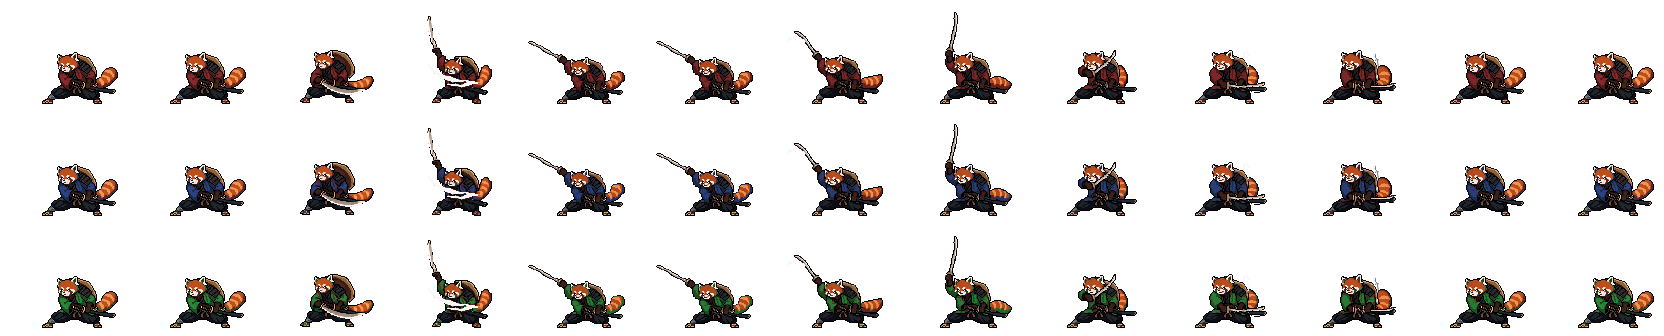
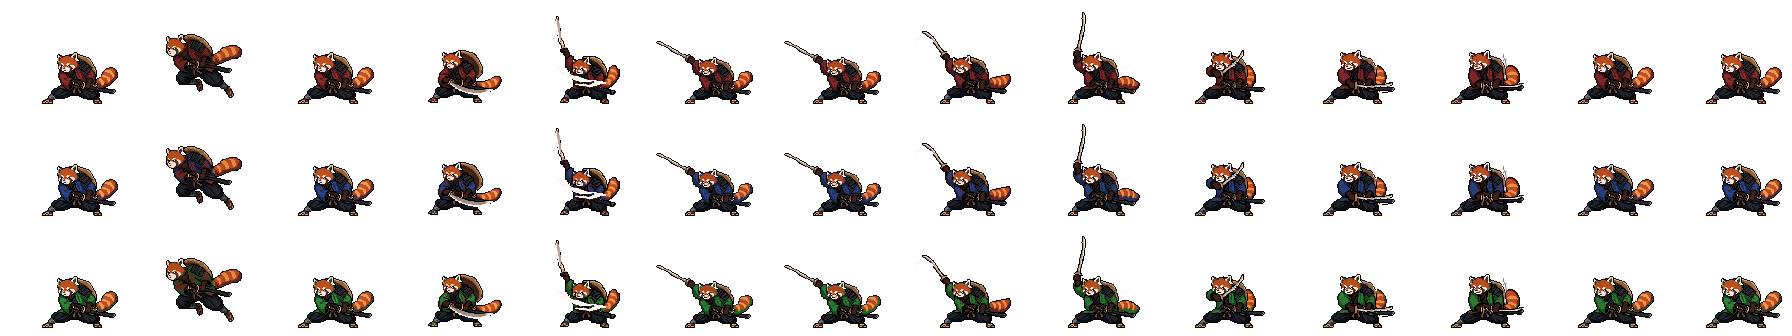
Quickdraw: airborne dash keyframe with speed lines
Claude-Session: https://claude.ai/code/session_01Na4BQSfsgPtUoSBxCa6yoU

diff --git a/public/js/scene.js b/public/js/scene.js
@@ -705,9 +705,15 @@ export class BattleScene {
     const dest = { x: first.x + this.reachDX(first) + (anim.dash || 0), y: first.y + 2 };
     A.anim = { d: anim, t0: now(), speed, at, total };
     this.cam = { x: (dest.x + first.x) / 2 - 6, y: dest.y - 30, t0: now(), dur: T(total + 200), z: 1.12 };
-    // 1. the dash: low and fast, kicking up dust
-    this.move(A, dest.x - home.x, dest.y - home.y, T(at[q.dashTo]), true); sfx('whirl');
-    for (let i = 0; i < 6; i++) setTimeout(() => this.particles.push({ x: A.x + A.ox + 6, y: A.y + A.oy - 1, vx: 20 + Math.random() * 30, vy: -8 - Math.random() * 10, g: 20, life: 0.4, t: 0, c: '#8a7a70', blob: 1, fade: true }), T(at[q.dashTo] * i / 6));
+    // 1. the dash: a short crouch, then he springs at the enemy in the airborne dash pose ('dashAt' to 'dashTo'), leaving
+    //    speed lines, a red streak and dust behind him
+    const d0 = at[q.dashAt || 0], dMs = at[q.dashTo] - d0;
+    setTimeout(() => { this.move(A, dest.x - home.x, dest.y - home.y, T(dMs), true); sfx('whirl'); }, T(d0));
+    for (let i = 0; i < 10; i++) setTimeout(() => {
+      const x = A.x + A.ox + 8, y = A.y + A.oy;
+      this.particles.push({ x, y: y - 8 - Math.random() * 30, vx: 140 + Math.random() * 80, vy: 0, g: 0, life: 0.22, t: 0, c: i % 3 ? '#ffffff' : '#ff3a4a', streak: 8 + Math.random() * 8, fade: true });
+      if (i % 2 === 0) this.particles.push({ x, y: y - 1, vx: 20 + Math.random() * 30, vy: -8 - Math.random() * 10, g: 20, life: 0.4, t: 0, c: '#8a7a70', blob: 1, fade: true });
+    }, T(d0 + dMs * i / 10));
     // 2. the red aura, gathering until the cut
     const auraMs = T(at[q.cutAt] - at[q.auraAt]);
     setTimeout(() => {

diff --git a/tools/build_attack.py b/tools/build_attack.py
@@ -130,12 +130,12 @@ EXTRA = {
                              resolve=dict(charge=[1, 6], up=7, hover=8, swing=[9, 10, 11], down=12, land=13, tipCharge=[-39, -15], tipUp=[-33, -100], guardUp=[-33, -61], tipDown=[-33, -15], guardDown=[-33, -51])),
     'knight:f/resolve': dict(base='knight:f', ms=[80, 120, 120, 120, 120, 120, 120, 300, 300, 60, 60, 60, 300, 400], hit=12, cast=False,
                              resolve=dict(charge=[1, 6], up=7, hover=8, swing=[9, 10, 11], down=12, land=13, tipCharge=[-28, -30], tipUp=[-28, -100], guardUp=[-28, -62], tipDown=[-32, -1], guardDown=[-32, -40])),
-    # Quickdraw (samurai; PixelLab keyframe + in-betweens, tools/art-src/quickdraw/): he dashes in still in his iaido crouch
-    # (until 'dashTo'), a red aura gathers round him ('auraAt' to 'cutAt'), the draw-cut lands on 'cutAt' with the red
+    # Quickdraw (samurai; PixelLab keyframe + in-betweens, tools/art-src/quickdraw/): he springs into an airborne dash, paw
+    # on the sheathed hilt ('dashAt' to 'dashTo', the keyframe after Andy's dash reference), lands in his iaido crouch, a red aura gathers round him ('auraAt' to 'cutAt'), the draw-cut lands on 'cutAt' with the red
     # crescent slash (public/art/fx/quickdraw_slash.png), he holds the follow-through, re-sheathes ('sheathAt': the click)
     # and goes back to his place ('returnAt').
-    'samurai:m/iai': dict(base='samurai:m', ms=[280, 420, 45, 45, 70, 320, 80, 80, 80, 80, 90, 120, 260], hit=3, cast=False, dash=26,
-                          iai=dict(dashTo=1, auraAt=1, cutAt=3, sheathAt=11, returnAt=12)),
+    'samurai:m/iai': dict(base='samurai:m', ms=[70, 240, 420, 45, 45, 70, 320, 80, 80, 80, 80, 90, 120, 260], hit=4, cast=False, dash=26,
+                          iai=dict(dashAt=1, dashTo=2, auraAt=2, cutAt=4, sheathAt=12, returnAt=13)),
     'knight:m/power': dict(base='knight:m', ms=[60, 70, 90, 110, 120, 130, 140, 110, 90, 380], hit=9, aura=[1, 7], dashAt=7, dashFrames=8, upswing=9, dash=10, cast=False),
     'knight:f/power': dict(base='knight:f', ms=[60, 70, 110, 120, 130, 140, 110, 90, 380], hit=8, aura=[1, 6], dashAt=6, dashFrames=7, upswing=8, dash=10, cast=False),
 }

diff --git a/README.md b/README.md
@@ -173,7 +173,7 @@ The built-in sprites are generated by a pixel rig in `public/js/sprites.js` (her
 
 Hero frames are 84×76 with the feet at (46, 72), facing left. Enemy frame sizes are in `ENEMY_DEF` in `sprites.js`, facing right. Anything not listed keeps the generated art. Add `"portrait": [x, y, w, h]` to a hero to crop its HUD portrait from the idle frame. Add `"variants": 3, "variantRows": 1` to put colour variants on extra rows.
 
-**The Samurai** (a red panda in a crimson haori) is the fifth class: *Precision*, 40 HP, Iai Cut (8) and Parry (8 block). Its signature is **Poised**: Still Mind, Kiai, Perfect Parry and Inner Calm make the samurai Poised, and the next basic attack or damaging skill deals double damage (blocks and buffs don't spend it; `spendsPoise` in `server/combat.js`). The rest of the pool rewards timing: Quickdraw and Moonlit Iai hit harder against an enemy at full health, Final Cut and Moonlit Iai against one below half. Its sprite is PixelLab concept A1 (`tools/art-src/samurai_base.png`, mirrored to face left), built by `python3 tools/build_ranger.py samurai:m` into 14 placeholder poses (lean, recoil, crouch, kneel) in crimson, indigo and jade (only the coat is recoloured, since the fur shares its reds). For now the Boy and Girl picks are the same red panda (`samurai:f` is an alias in the manifest), and it has no hand-animated moves yet, so it uses the generic dash-and-swing. **Samurai idle:** a low iaido crouch with a paw on the hilt of the sheathed katana, ready to draw (after Andy's ink reference), breathing with a swaying tail (a PixelLab idle loop, `tools/art-src/samurai_idle.png`); the strike frames use the blade-out stance, so he draws as he hits. **Quickdraw** (after Andy's slash FX reference): he dashes at the enemy still in his iaido crouch, a red aura gathers round him, the draw-cut lands with a red crescent slash (`public/art/fx/quickdraw_slash.png`, a PixelLab image revealed and faded in code) and red shards, he holds the follow-through, re-sheathes with a click and goes back (`_iaiAnim` in `scene.js`, `anims.iai` built from `tools/art-src/quickdraw/`). **Samurai victory** (after Andy's victory concept sheet): out of the crouch he draws and raises the blade high, slashes the air (PixelLab's own smear arc; the game throws a gust of cherry blossom forward on `drawAt`), flicks and sheathes it (`sheathAt`: from the click, blossoms drift down around him, tumbling and settling, for as long as the win lasts; `_drawPetals` in `scene.js`), turns his back, takes the straw kasa off his back and puts it on with the brim pulled low over his eyes, and holds the pose with the sheathed sword at his side, breathing. Keyframes are PixelLab `edit_image` (the turned hold pose is shrunk to his height with the head kept full size by `python3 tools/build_samurai_victory.py`), in-betweens `animate_image`; the sources are in `tools/art-src/victory/`, and `python3 tools/build_attack.py samurai:m/victory` builds the sheet (the coat is recoloured by crimson vs orange, so the fur never changes colour). The Animation Lab has a **Victory** button for every hero. His attacks will be themed on cherry blossoms and moons.
+**The Samurai** (a red panda in a crimson haori) is the fifth class: *Precision*, 40 HP, Iai Cut (8) and Parry (8 block). Its signature is **Poised**: Still Mind, Kiai, Perfect Parry and Inner Calm make the samurai Poised, and the next basic attack or damaging skill deals double damage (blocks and buffs don't spend it; `spendsPoise` in `server/combat.js`). The rest of the pool rewards timing: Quickdraw and Moonlit Iai hit harder against an enemy at full health, Final Cut and Moonlit Iai against one below half. Its sprite is PixelLab concept A1 (`tools/art-src/samurai_base.png`, mirrored to face left), built by `python3 tools/build_ranger.py samurai:m` into 14 placeholder poses (lean, recoil, crouch, kneel) in crimson, indigo and jade (only the coat is recoloured, since the fur shares its reds). For now the Boy and Girl picks are the same red panda (`samurai:f` is an alias in the manifest), and it has no hand-animated moves yet, so it uses the generic dash-and-swing. **Samurai idle:** a low iaido crouch with a paw on the hilt of the sheathed katana, ready to draw (after Andy's ink reference), breathing with a swaying tail (a PixelLab idle loop, `tools/art-src/samurai_idle.png`); the strike frames use the blade-out stance, so he draws as he hits. **Quickdraw** (after Andy's slash FX and dash references): he springs into an airborne dash with his paw on the sheathed hilt (a PixelLab keyframe), lands in his iaido crouch by the enemy, a red aura gathers round him, the draw-cut lands with a red crescent slash (`public/art/fx/quickdraw_slash.png`, a PixelLab image revealed and faded in code) and red shards, he holds the follow-through, re-sheathes with a click and goes back (`_iaiAnim` in `scene.js`, `anims.iai` built from `tools/art-src/quickdraw/`). **Samurai victory** (after Andy's victory concept sheet): out of the crouch he draws and raises the blade high, slashes the air (PixelLab's own smear arc; the game throws a gust of cherry blossom forward on `drawAt`), flicks and sheathes it (`sheathAt`: from the click, blossoms drift down around him, tumbling and settling, for as long as the win lasts; `_drawPetals` in `scene.js`), turns his back, takes the straw kasa off his back and puts it on with the brim pulled low over his eyes, and holds the pose with the sheathed sword at his side, breathing. Keyframes are PixelLab `edit_image` (the turned hold pose is shrunk to his height with the head kept full size by `python3 tools/build_samurai_victory.py`), in-betweens `animate_image`; the sources are in `tools/art-src/victory/`, and `python3 tools/build_attack.py samurai:m/victory` builds the sheet (the coat is recoloured by crimson vs orange, so the fur never changes colour). The Animation Lab has a **Victory** button for every hero. His attacks will be themed on cherry blossoms and moons.
 
 **All heroes are Andy's own sprites, in a boy and a girl version.** Hero art is keyed `class:gender` in the manifest (`knight:m`, `mage:f`, …); the server gives each hero a `skin` and every portrait and sprite uses it. The girl knight (`tools/art-src/knight_f_base.png`) is built by `build_ranger.py` like the clerics and rangers. Every hero's idle loop was animated by PixelLab (`animate_image`, 4 frames played 0-1-2-1 so it loops smoothly); the mages' flames flicker in it. The source strips are `tools/art-src/<sheet>_idle.png`. PixelLab made the knight, boy cleric and girl ranger blink, so `python3 tools/fix_blink.py knight cleric_m ranger_f` pastes the open-eyed face from the first frame onto the others (following the head if it moved); re-run it on any new idle strip that blinks. `python3 tools/build_knight.py`, `tools/build_mage.py` (both mages: the staff is moved to the free hand and re-angled per pose; the flame grows for spells and goes out when knocked down) and `tools/build_ranger.py` (both rangers and both clerics: whole-sprite lean, recoil, crouch and kneel) build the other poses and three colour variants. Heroes are matched to the knight's height (about 55px, feet to head): `build_ranger.py` shrinks the girl cleric to 85%, the boy cleric to 93% and the girl ranger to 95% with a nearest-neighbour pass about the feet, so pixels stay crisp and every pose shrinks the same way. The mages are about 2px shorter and are left as drawn, since enlarging pixel art doubles pixels. All have a 14th pose, `sit`, used at the campfire. **Knight special slash.** Both knights attack with a hand-animated move made in PixelLab: a shoulder-charge dash with the sword trailing behind, a plant, the sword swung overhead, then a downward slash (12–14 frames, about 1.1 s). The charge pose was made with PixelLab `edit_image` from the idle frame, the in-betweens with `animate_image` pinned between keyframes. Source strips are `tools/art-src/atk/<sheet>_slash_src.png` (128×112 frames, feet at 80,104); `python3 tools/build_attack.py` recolours them for the three cape colours, writes `public/art/<sheet>_slash.png` and adds `anims.slash` to the manifest (frame times, the hit frame, the trail frame, how far she dashes). In battle (`_bigSlash` in `scene.js`) the camera eases in about 14% on the knight, the screen edges darken, a pale crescent after-image follows the sword's path, and the screen shakes on the hit. **Cleric smite.** Both clerics cast their attack from where they stand: they raise the staff overhead while chanting (the mouth moves), then slam it down, and yellow lightning strikes the enemy from the top of the screen (`skyStrike` in `scene.js`: a forked bolt, a flash, a glow and sparks). Same pipeline: `tools/art-src/atk/<sheet>_smite_src.png` → `build_attack.py` → `anims.smite` with `cast: true` (no dash, gentler 10% zoom) and a `strike` frame. Any hero can get a move the same way: add an entry to `MOVES` in `build_attack.py` keyed by the attack's effect name.
 
